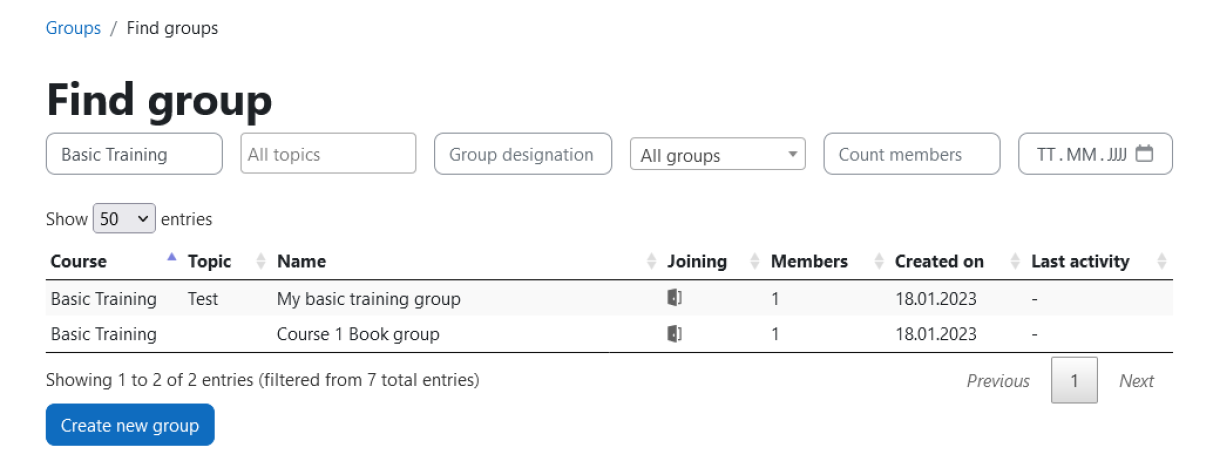
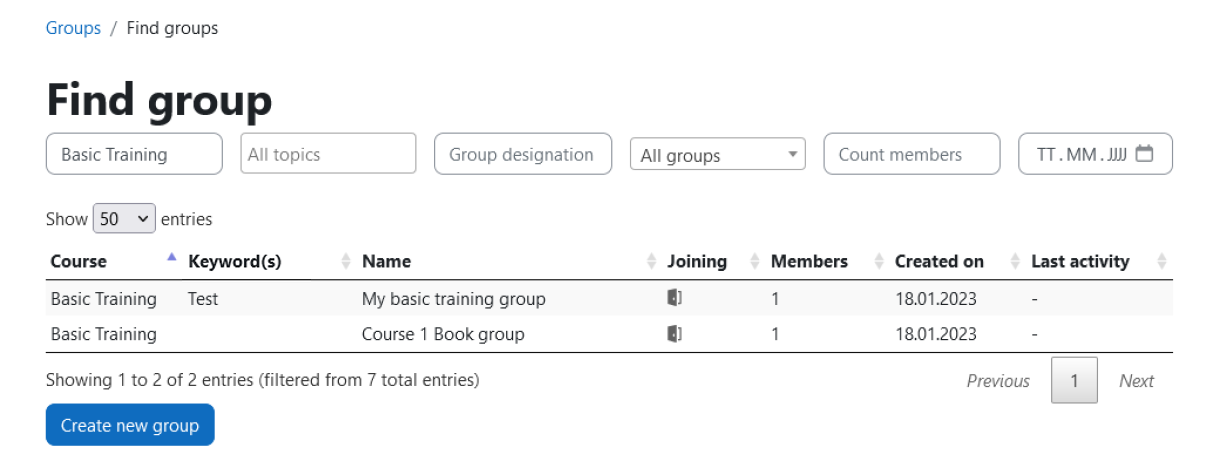
updates documentation

Changed region(s): [[0.2149, 0.6808, 0.4299, 0.74], [0.1535, 0.5328, 0.3378, 0.592], [0.2149, 0.6216, 0.4606, 0.6512]]

diff --git a/README.md b/README.md
@@ -1,5 +1,3 @@
-# Learning Companions - My Groups #
-
 # Learning Companions #
 
 # Technische Hochschule
@@ -26,9 +24,9 @@ Students seeking expert advice can specifically contact mentors with their quest
 In addition, they can interact with each Learning Nugget (Moodle activity) via a comment block.
 
 The three plugins that make up Learning Companions are:
-local/learningcompanions - this plugin does most of the work. It provides the group chats and group searches, mentor chats and searches, and adding the comment blocks to the Learning Nuggets.
-block/learningcompanions_mygroups - this is a block plugin that is used for navigation and to jump from any Moodle page to the group and mentor searches and chats.
-tool/learningcompanions - this plugin provides administration functionality that allows users with higher rights (admins/managers) to delete reported posts and manage all groups.
+local_thi_learning_companions - this plugin does most of the work. It provides the group chats and group searches, mentor chats and searches, and adding the comment blocks to the Learning Nuggets.
+block_thi_learning_companions_mygroups - this is a block plugin that is used for navigation and to jump from any Moodle page to the group and mentor searches and chats.
+tool_thi_learning_companions - this plugin provides administration functionality that allows users with higher rights (admins/managers) to delete reported posts and manage all groups.
 
 
 ##### Quick start
@@ -36,7 +34,7 @@ tool/learningcompanions - this plugin provides administration functionality that
 ###### Installing the plugins
 
 Like all Moodle plugins, these just need to be copied to the appropriate place in the directory tree.
-local/learningcompanions must be in local/learningcompanions, block/learningcompanions_mygroups in local/learningcompanions and tool/learningcompanions in admin/tool/learningcompanions.
+local_thi_learning_companions must be in local/thi_learning_companions, block_thi_learning_companions_mygroups in blocks/thi_learning_companions_mygroups and tool_thi_learning_companions in admin/tool/thi_learning_companions.
 
 After the plugins have been moved to the appropriate places, you log in as an administrator and are automatically prompted to update, as Moodle recognises the new plugins on its own.
 
@@ -44,7 +42,7 @@ At the end of the update process, a form is displayed with the newly recognised 
 
 ###### Adding the Block Plugin
 
-In order for the block plugin block/learningcompanions to be displayed on all pages, it must be added to the start page (/?redirect=0).
+In order for the block plugin block_thi_learning_companions to be displayed on all pages, it must be added to the start page (/?redirect=0).
 
 ![](pix\documentation\icon-thi-dokumentation_v0.9_en2.png)
 
@@ -59,9 +57,9 @@ This block adds all the links to the Learning Companions features on the right-h
 The groups to which you belong are listed at the top. For each group, the group picture, the group title, as well as the last comment and the date of the last comment in the group are displayed. The group title is linked to the corresponding group chat.
 If you belong to more than three groups, only three will be displayed at first. Additional groups can be displayed by clicking on „Show (x) more groups“.
 
-The „Group me up“ link refers to a page on which users can search for groups and join them, or apply to join closed groups.
+The „Group me up“ link refers to a page on which users can create new groups, search for groups and join them, or apply to join closed groups.
 
-The link „Go to admin area“ is only displayed to users with extended rights. The authorisation required for this is „local/learningcompanions:group_manage“. By default, all administrators and users with the role „manager“ receive this authorisation when the plug-in is installed. In the admin area, reported contributions can be managed and orphaned groups can be deleted.
+The link „Go to admin area“ is only displayed to users with extended rights. The authorisation required for this is „local_thi_learning_companions:group_manage“. By default, all administrators and users with the role „manager“ receive this authorisation when the plug-in is installed. In the admin area, reported contributions can be managed and orphaned groups can be deleted.
 
 Under „My Mentors“, you can jump to the list of questions you have asked mentors or submit new questions.
 
@@ -69,41 +67,66 @@ The section „My mentorship“ is only visible to users with the role „Mentor
 
 ###### Course topics
 
-The plugin local/learningcompanions adds a new course custom field: „Topic“.
-Edit your courses and enter the associated topic there. These topics help with the group search by topic and determine for which topic a mentor is qualified if he/she has earned a corresponding badge in the course.
+The plugin local/thi_learning_companions adds a new course custom field: „Topic“.
+Edit your courses and enter the associated topic there. These topics determine for which topic a mentor is qualified if he/she has earned a corresponding badge in the course.
 
 ![](pix\documentation\icon-thi-dokumentation_v0.9_en5.png)
 
 ###### Configure Badges
 
-To become a mentor for a topic, one must have earned a specific badge in a course of that topic. Which badges qualify for this role is defined in the plugin settings of the plugin local/learningcompanions.
-These settings can be found under Site administration > General > Learning Companions > Local plugin learningcompanions or the URL admin/settings.php?section=local_learningcompanions.
+To become a mentor for a topic, one must have earned a specific badge in a course of that topic. Which badges qualify for this role is defined in the plugin settings of the plugin local_thi_learning_companions.
+These settings can be found under Site administration > General > Learning Companions > Local plugin local_thi_learning_companions or the URL admin/settings.php?section=local_thi_learning_companions.
 There you will find the setting „Mentor badges“:
 
 ![](pix\documentation\icon-thi-dokumentation_v0.9_en6.png)
 
-Here you can enter several terms, separated by commas, which must be part of the badge name. If a user receives a badge with one of these terms in its name, he or she has thus qualified as a mentor for the subject of the course, is informed of this via a Moodle message and can decide for himself or herself whether to accept this role (via the page „My mentorship > Manage mentorship(s)“).
+Here you can enter several terms, separated by commas, which must be part of the badge name. 
+
+If a user receives a badge with one of these terms in its name, he or she has thus qualified as a mentor for the subject of the course, is informed of this via a Moodle message and can decide for himself or herself whether to accept this role (via the page „My mentorship > Manage mentorship(s)“).
+
+The badge name doesn't have to match exactly. For example if the setting is set to "expert", then a badge with the name "IT Expert" matches too, since it contains the word "expert". The match is case insensitive. 
 
 ###### Group me up
 
-If the block block/learningcompanions_mygroups has been added as described above, then users can jump from any page to the page „Groups > Find Group“ via the link „Group me up“ in this block. When I jump to this page from a course or course module, the list of groups is already pre-filtered by the current course.
-By removing this filter (here „Basic Training“) one can then get the whole list of available groups again.  The icon in the „Joining“ column indicates whether the group is open or closed. Anyone can join an open group or view the chats without being a member of the group. For closed groups, you have to request to join.
+If the block block_thi_learning_companions_mygroups has been added as described above, 
+then users can jump from any page to the page „Groups > Find Group“ via the link „Group me up“ in this block.
+
+When I jump to this page from a course or course module, the list of groups is already pre-filtered by the current course.
+By removing this filter (here „Basic Training“ in the screenshot below) one can then get the whole list of available groups again. 
+
+The icon in the „Joining“ column indicates whether the group is open or closed.
+Anyone can join an open group or view the chats without being a member of the group.
+For closed groups, you have to request to join.
 
 ![](pix\documentation\icon-thi-dokumentation_v0.9_en7.png)
 
 ###### Create a group
 
-If I have not found a group in the table on the „Find group“ page that meets my needs, I can create a new group myself using the „Create new group“ button. A form opens in which I can enter all the relevant information about the group. The group name is displayed in the group search and overview of my groups. It should describe as precisely and concisely as possible what the group is about. It is the only mandatory field.
-The field „Topic“ can be filled freely. It does not have to be congruent with the topic of the course. This is an autocomplete field with tagging function. This means that suggestions appear while you are typing that contain the text you have entered.
+If I have not found a group in the table on the „Find group“ page that meets my needs, I can create a new group myself using the „Create new group“ button.
+A form opens in which I can enter all the relevant information about the group. 
+
+The **group name** is displayed in the group search and overview of my groups. It should describe as precisely and concisely as possible what the group is about. It is the only mandatory field.
+
+The field „**Keyword(s)**“ can be filled freely. It does not have to be congruent with the topic of the course.
+This is an autocomplete field with tagging function. This means that suggestions appear while you are typing that contain the text you have entered.
 By clicking on such a suggestion, it is taken over. You can also create new topics by entering the text as usual and pressing Return(Enter). Several topics can be added.
-Course context is pre-filled with the course I came from when I arrived here via a course. Multiple selection is not possible here. Like all fields except Group name, this field is optional. The field can be useful when users are looking for a group that is relevant to a particular course.
-Learning nugget context is also an autocomplete field. Here, activities (learning nuggets) are available that are included in the course selected for „Course context“.
-With the option „Closed group“ I can define whether everyone can/may visit the group or a membership has to be applied for and approved.
-A group picture can be uploaded. It appears in the overviews and helps to distinguish the groups from each other more quickly. If no picture is uploaded, a placeholder picture is displayed instead.
+
+**Course context** is pre-filled with the course I came from when I arrived here via a course. 
+Multiple selection is not possible here. Like all fields except Group name, this field is optional.
+The field can be useful when users are looking for a group that is relevant to a particular course.
+
+**Learning nugget context** is also an autocomplete field. 
+Here, activities (learning nuggets) are available that are included in the course selected for „Course context“.
+
+With the option „**Closed group**“ I can define whether everyone can/may visit the group or a membership has to be applied for and approved.
+
+A **group picture** can be uploaded. It appears in the overviews and helps to distinguish the groups from each other more quickly. If no picture is uploaded, a placeholder picture is displayed instead.
 
 ###### Group-Chat
 
-In the group chat, users can write texts and apply simple formatting such as bold, italic, underlined and strikethrough. They can also upload pictures and files or start a video conference using the BigBlueButton.
+In the group chat, users can write texts and apply simple formatting such as bold, italic, underlined and strikethrough. 
+They can also upload pictures and files or start a video conference using the BigBlueButton. The buttons for file upload and BigBlueButton are currently only available for the ATTO editor.
+
 Own comments are highlighted in green, reported comments in yellow. Deleted comments appear in the chat with the text „Message deleted“ replaced.
 Hovering over the comments gives you the option to report posts or delete your own.
 
@@ -111,53 +134,53 @@ Hovering over the comments gives you the option to report posts or delete your o
 
 ###### Plugin-Settings
 
-Local/learningcompanions
+local_thi_learning_companions
 
-Group image max filesize (local_learningcompanions | groupimage_maxbytes)<br>
+Group image max filesize (local_thi_learning_companions | groupimage_maxbytes)<br>
 Default value: 1000000
 
 This value determines the maximum file size that a group picture may have. Users who create groups have the option of uploading a picture for their group. Since there can theoretically be very many groups, it makes sense to limit the maximum upload size. The value given here is in bytes. The default value of 1000000 is therefore 1MB.
 
-Add comment block to activities (local_learningcompanions | commentactivities)<br>
+Add comment block to activities (local_thi_learning_companions | commentactivities)<br>
 Default: assign,assignment,book,choice,data,feedback,folder,glossary,h5pactivity,lesson,lit,quiz,resource,page,scorm,survey,workshop
 
 In order for learners to be able to exchange information about the Learning Nuggets, the plugin adds a comment block to each Learning Nugget. Under certain circumstances, such a comment block is not desired for all Learning Nugget activity types. For example, because the comment block is distracting or does not fit well into the layout for the activity. Therefore, this setting can be used to specify which activities should automatically receive a comment block.
 
-Mentor badges (local_learningcompanions | badgetypes_for_mentors)<br>
+Mentor badges (local_thi_learning_companions | badgetypes_for_mentors)<br>
 Default: expert
 
 Users can be qualified to become a mentor for a topic by receiving certain badges. In order for the platform to know which badge qualifies for this role, at least one badge name must be entered here. It does not have to be the full badge name, but a component of the name is sufficient. I.e. if, for example, the default value „expert“ is kept, then a user can qualify to become a mentor by receiving a badge called „Expert in IT“ or „Maths Expert“. Upper and lower case letters are ignored. Multiple badge names can be entered, separated by commas.
 
-Minimum ratings to become supermentor (local_learningcompanions | supermentor_minimum_ratings)<br>
+Minimum ratings to become supermentor (local_thi_learning_companions | supermentor_minimum_ratings)<br>
 Default: 10
 
 Through positive ratings in mentor chats, mentors can advance to supermentor. The value given here determines how many positive ratings are needed to obtain the status of supermentor.
 
-Latest comments: Max. amount (local_learningcompanions | latest_comments_max_amount)<br>
+Latest comments: Max. amount (local_thi_learning_companions | latest_comments_max_amount)<br>
 Default: 20
 
 Mentors can display the list of the most recent comments on their topic. The value given here indicates how many comments are displayed.
 
-Upload limit per message (local_learningcompanions | upload_limit_per_message)<br>
+Upload limit per message (local_thi_learning_companions | upload_limit_per_message)<br>
 Default: 5
 
 In group chats, users can upload files. The sum of the files uploaded in a message must not exceed the specified number of MB.
 
-Upload limit per chat (local_learningcompanions | upload_limit_per_chat)<br>
+Upload limit per chat (local_thi_learning_companions | upload_limit_per_chat)<br>
 Default: 100
 
 The total amount of uploaded files in a group chat must not exceed the number of MB specified here. If the value is reached, no more files can be uploaded in this chat.
 
-Inform tutors about unanswered questions after x days (local_learningcompanions | inform_tutors_about_unanswered_questions_after_x_days)<br>
+Inform tutors about unanswered questions after x days (local_thi_learning_companions | inform_tutors_about_unanswered_questions_after_x_days)<br>
 Default: 14
 
 Learners can ask questions to individual mentors or open questions to all mentors. If such a question remains unanswered for a longer period of time, a tutor is automatically informed about it. The value specified here determines after how many days this happens.<br>
 
-Shortname of tutor role (local_learningcompanions | tutorrole_shortname)<br>
+Shortname of tutor role (local_thi_learning_companions | tutorrole_shortname)<br>
 Default: teacher
 
 As mentioned above, tutors are automatically notified about questions that have remained unanswered for a longer period of time. The value here defines which role a user must have in order to be considered a tutor and to receive the notification. The role short name must be specified.
-The settings for the plugin local_learningcompanions can be edited at any time via the URL admin/settings.php?section=local_learningcompanions.
+The settings for the plugin local_thi_learning_companions can be edited at any time via the URL admin/settings.php?section=local_thi_learning_companions.
 
 The Admin Tool and the Block Plugin have no settings.
 
@@ -174,7 +197,7 @@ The Admin Tool and the Block Plugin have no settings.
 
 The plugin can be also installed by putting the contents of this directory to
 
-    {your/moodle/dirroot}/blocks/thi_learning_companions_mygroups
+    {your/moodle/dirroot}/local/thi_learning_companions
 
 Afterwards, log in to your Moodle site as an admin and go to _Site administration >
 Notifications_ to complete the installation.
